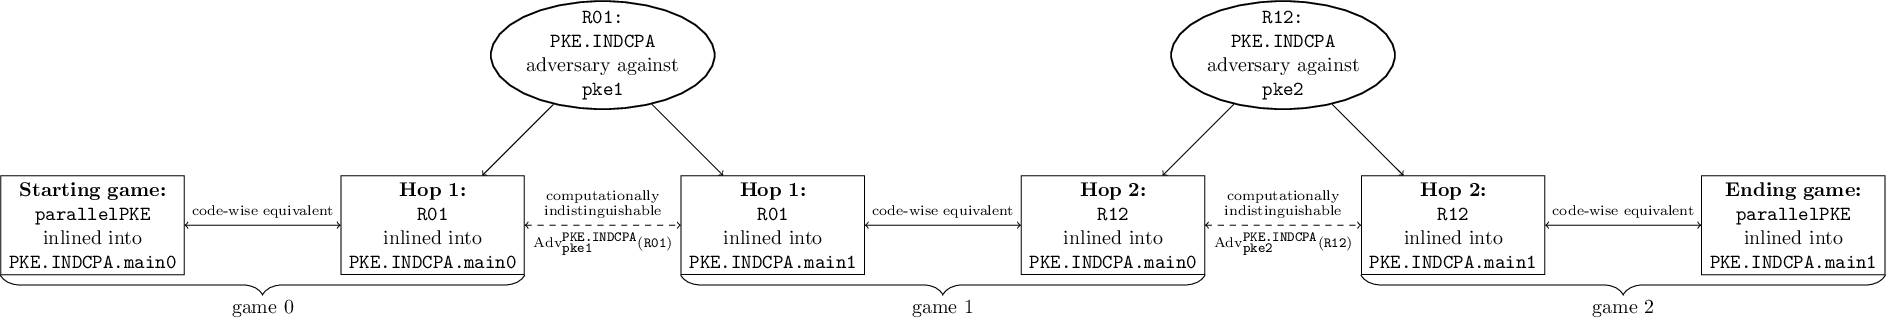
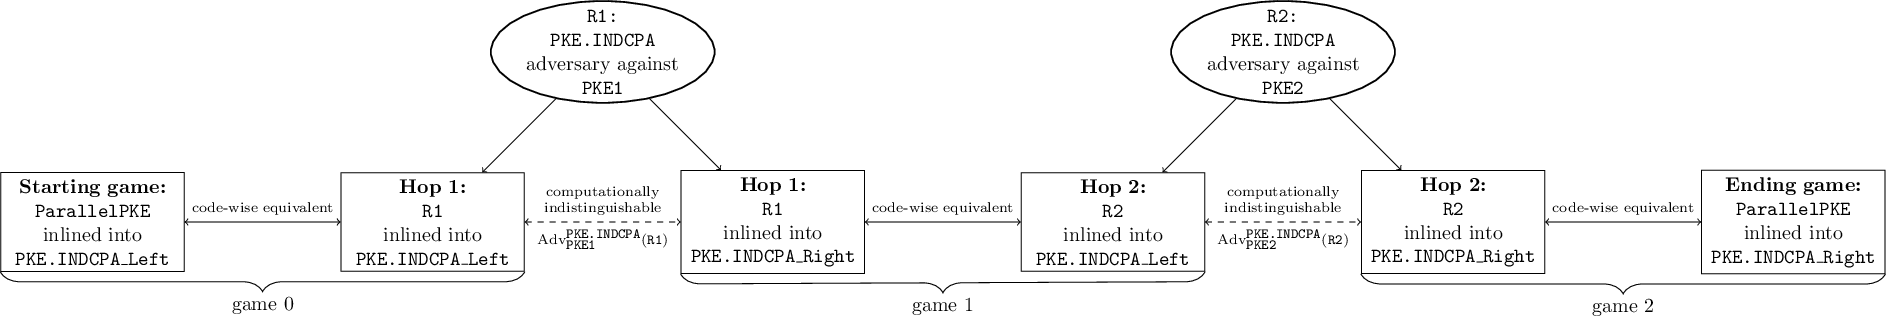
Update parallelPKE to use typevars

diff --git a/examples/parallelPKE/parallelPKE_is_INDCPA.py b/examples/parallelPKE/parallelPKE_is_INDCPA.py
@@ -1,10 +1,10 @@
 import os
-from typing import Tuple, Type
+from typing import Generic, Tuple, Type
 
 from gamehop.primitives import Crypto, PKE
 from gamehop.proofs2 import Proof
 
-from parallelPKE import ParallelPKE, PKE1, PKE2
+from parallelPKE import ParallelPKE, PKE1, PKE2, PK1, PK2, SK1, SK2, CT1, CT2, PT12
 
 # Theorem: ParallelPKE[PKE1, PKE2] is IND-CPA-secure if both PKE1 and PKE2 are IND-CPA-secure.
 proof = Proof(ParallelPKE, PKE.INDCPA)
@@ -17,30 +17,28 @@ proof = Proof(ParallelPKE, PKE.INDCPA)
 # This is chosen by constructing a reduction that acts an IND-CPA-adversary against PKE1,
 # and checking that this reduction, inlined into the IND-CPA experiment for PKE1,
 # is equivalent to either Game 0 or Game 1.
-class R1(PKE.INDCPA_Adversary, Crypto.Reduction): # This is an INDCPA adversary for PKE1
-    def __init__(self, Scheme: Type[PKE1], inner_adversary: PKE.INDCPA_Adversary):
+class R1(Generic[PK1, PK2, SK1, SK2, CT1, CT2, PT12], PKE.INDCPA_Adversary[PK1, SK1, CT1, PT12], Crypto.Reduction): # This is an INDCPA adversary for PKE1
+    def __init__(self, Scheme: Type[PKE.PKEScheme[PK1, SK1, CT1, PT12]], inner_adversary: PKE.INDCPA_Adversary[Tuple[PK1, PK2], Tuple[SK1, SK2], Tuple[CT1, CT2], PT12]):
         self.Scheme = Scheme
         self.inner_adversary = inner_adversary # this is the ParallelPKE adversary
-    def challenge(self, pk1: PKE1.PublicKey) -> Tuple[PKE1.Message, PKE1.Message]:
+    def challenge(self, pk1: PK1) -> Tuple[PT12, PT12]:
         # Use the ParallelPKE adversary to generate the two challenge messages.
         # To construct the ParallelPKE public key, we use the PKE1 public key given
         # by the INDCPA challenger for PKE1, and generate the PKE2 keypair ourselves.
         (pk2, sk2) = PKE2.KeyGen()
-        pk_double = ParallelPKE.PublicKey(pk1, pk2)
-        (m0, m1) = self.inner_adversary.challenge(pk_double)
+        (m0, m1) = self.inner_adversary.challenge((pk1, pk2))
         self.pk2 = pk2
         self.m0 = m0
         self.m1 = m1
         return (m0, m1)
-    def guess(self, ct1: PKE1.Ciphertext) -> Crypto.Bit:
+    def guess(self, ct1: CT1) -> Crypto.Bit:
         # Given the challenge PKE1 ciphertext from the INDCPA challenger for PKE1,
         # construct a ParallelPKE ciphertext by encrypting m0 under the PKE2 public key,
         # then pass the ParallelPKE ciphertext to the ParallelPKE adversary.
         ct2 = PKE2.Encrypt(self.pk2, self.m0)
-        ct = ParallelPKE.Ciphertext(ct1, ct2)
-        return self.inner_adversary.guess(ct)
+        return self.inner_adversary.guess((ct1, ct2))
 
-proof.add_distinguishing_proof_step(R1, PKE.INDCPA, PKE1)
+proof.add_distinguishing_proof_step(R1, PKE.INDCPA, PKE1, "PKE1")
 
 # Game 2 encrypts m1 rather than m0 in PKE2.
 
@@ -48,30 +46,28 @@ proof.add_distinguishing_proof_step(R1, PKE.INDCPA, PKE1)
 # This is chosen by constructing a reduction that acts an IND-CPA-adversary against PKE2,
 # and checking that this reduction, inlined into the IND-CPA experiment for PKE2,
 # is equivalent to either Game 1 or Game 2.
-class R2(PKE.INDCPA_Adversary, Crypto.Reduction): # This is an INDCPA adversary for PKE2
-    def __init__(self, Scheme: Type[PKE2], inner_adversary: PKE.INDCPA_Adversary):
+class R2(Generic[PK1, PK2, SK1, SK2, CT1, CT2, PT12], PKE.INDCPA_Adversary[PK2, SK2, CT2, PT12], Crypto.Reduction): # This is an INDCPA adversary for PKE2
+    def __init__(self, Scheme: Type[PKE.PKEScheme[PK2, SK2, CT2, PT12]], inner_adversary: PKE.INDCPA_Adversary[Tuple[PK1, PK2], Tuple[SK1, SK2], Tuple[CT1, CT2], PT12]):
         self.Scheme = Scheme
         self.inner_adversary = inner_adversary # this is the ParallelPKE adversary
-    def challenge(self, pk2: PKE2.PublicKey) -> Tuple[PKE2.Message, PKE2.Message]:
+    def challenge(self, pk2: PK2) -> Tuple[PT12, PT12]:
         # Use the ParallelPKE adversary to generate the two challenge messages.
         # To construct the ParallelPKE public key, we use the PKE2 public key given
         # by the INDCPA challenger for PKE2, and generate the PKE1 keypair ourselves.
         (pk1, sk1) = PKE1.KeyGen()
-        pk_double = ParallelPKE.PublicKey(pk1, pk2)
-        (m0, m1) = self.inner_adversary.challenge(pk_double)
+        (m0, m1) = self.inner_adversary.challenge((pk1, pk2))
         self.pk1 = pk1
         self.m0 = m0
         self.m1 = m1
         return (m0, m1)
-    def guess(self, ct2: PKE2.Ciphertext) -> Crypto.Bit:
+    def guess(self, ct2: CT2) -> Crypto.Bit:
         # Given the challenge PKE2 ciphertext from the INDCPA challenger for PKE2,
         # construct a ParallelPKE ciphertext by encrypting m1 under the PKE1 public key,
         # then pass the ParallelPKE ciphertext to the ParallelPKE adversary.
         ct1 = PKE1.Encrypt(self.pk1, self.m1)
-        ct = ParallelPKE.Ciphertext(ct1, ct2)
-        return self.inner_adversary.guess(ct)
+        return self.inner_adversary.guess((ct1, ct2))
 
-proof.add_distinguishing_proof_step(R2, PKE.INDCPA, PKE2)
+proof.add_distinguishing_proof_step(R2, PKE.INDCPA, PKE2, "PKE2")
 
 assert proof.check(print_hops=True, print_canonicalizations=True, print_diffs=True, abort_on_failure=False)
 print("Theorem :")

diff --git a/examples/parallelPKE/parallelPKE.py b/examples/parallelPKE/parallelPKE.py
@@ -1,45 +1,41 @@
-from typing import cast, Tuple, Union
+from typing import cast, Generic, Optional, Sized, Tuple, TypeVar
 
 from gamehop.primitives import Crypto
 from gamehop.primitives.PKE import PKEScheme
 
-class PKE1(PKEScheme): pass
-class PKE2(PKEScheme): pass
+PK1 = TypeVar('PK1')
+SK1 = TypeVar('SK1')
+CT1 = TypeVar('CT1')
+PK2 = TypeVar('PK2')
+SK2 = TypeVar('SK2')
+CT2 = TypeVar('CT2')
+PT12 = TypeVar('PT12', bound=Sized) # Use the same plaintext space for both schemes
 
-class ParallelPKE(PKEScheme):
-    class PublicKey(PKEScheme.PublicKey):
-        def __init__(self, pk1: PKE1.PublicKey, pk2: PKE2.PublicKey):
-            self.pk1 = pk1
-            self.pk2 = pk2
-    class SecretKey(PKEScheme.SecretKey):
-        def __init__(self, sk1: PKE1.SecretKey, sk2: PKE2.SecretKey):
-            self.sk1 = sk1
-            self.sk2 = sk2
-    class Ciphertext(PKEScheme.Ciphertext):
-        def __init__(self, ct1: PKE1.Ciphertext, ct2: PKE2.Ciphertext):
-            self.ct1 = ct1
-            self.ct2 = ct2
-    class Message(PKEScheme.Message): pass
+PKE1 = PKEScheme[PK1, SK1, CT1, PT12]
+PKE2 = PKEScheme[PK2, SK2, CT2, PT12]
 
+class ParallelPKE(
+    Generic[PK1, PK2, SK1, SK2, CT1, CT2, PT12],
+    PKEScheme[Tuple[PK1, PK2], Tuple[SK1, SK2], Tuple[CT1, CT2], PT12]):
     @staticmethod
-    def KeyGen() -> Tuple[PublicKey, SecretKey]:
+    def KeyGen():
         (pk1, sk1) = PKE1.KeyGen()
         (pk2, sk2) = PKE2.KeyGen()
-        pkprime = ParallelPKE.PublicKey(pk1, pk2)
-        skprime = ParallelPKE.SecretKey(sk1, sk2)
-        return (pkprime, skprime)
+        return ((pk1, pk2), (sk1, sk2))
     @staticmethod
-    def Encrypt(pk: PublicKey, msg: Message) -> Ciphertext: # type: ignore[override]
-        ct1 = PKE1.Encrypt(pk.pk1, msg)
-        ct2 = PKE2.Encrypt(pk.pk2, msg)
-        ct = ParallelPKE.Ciphertext(ct1, ct2)
-        return ct
+    def Encrypt(npk, msg):
+        (pk1, pk2) = npk
+        ct1 = PKE1.Encrypt(pk1, msg)
+        ct2 = PKE2.Encrypt(pk2, msg)
+        return (ct1, ct2)
     @staticmethod
-    def Decrypt(sk: SecretKey, ct: Ciphertext) -> Union[Crypto.Reject, Message]: # type: ignore[override]
-        pt1 = PKE1.Decrypt(sk.sk1, ct.ct1)
-        pt2 = PKE2.Decrypt(sk.sk2, ct.ct2)
-        if pt1 == Crypto.Reject or pt1 == Crypto.Reject or pt1 != pt2:
-            r: Union[Crypto.Reject, ParallelPKE.Message] = Crypto.Reject()
+    def Decrypt(nsk, nct):
+        (sk1, sk2) = nsk
+        (ct1, ct2) = nct
+        pt1 = PKE1.Decrypt(sk1, ct1)
+        pt2 = PKE2.Decrypt(sk2, ct2)
+        if pt1 is None or pt1 is None or pt1 != pt2:
+            r: Optional[PT12] = None
         else:
-            r = cast(ParallelPKE.Message, pt1)
+            r = pt1
         return r
